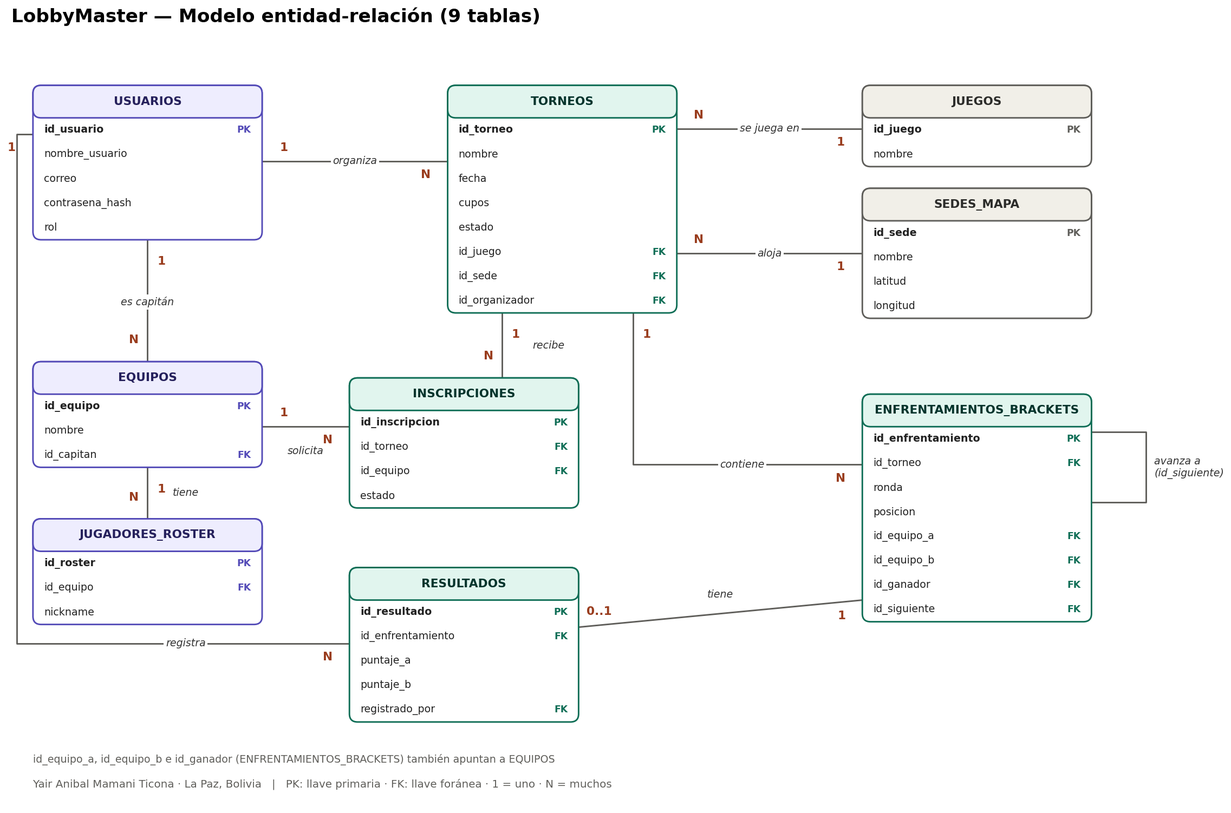
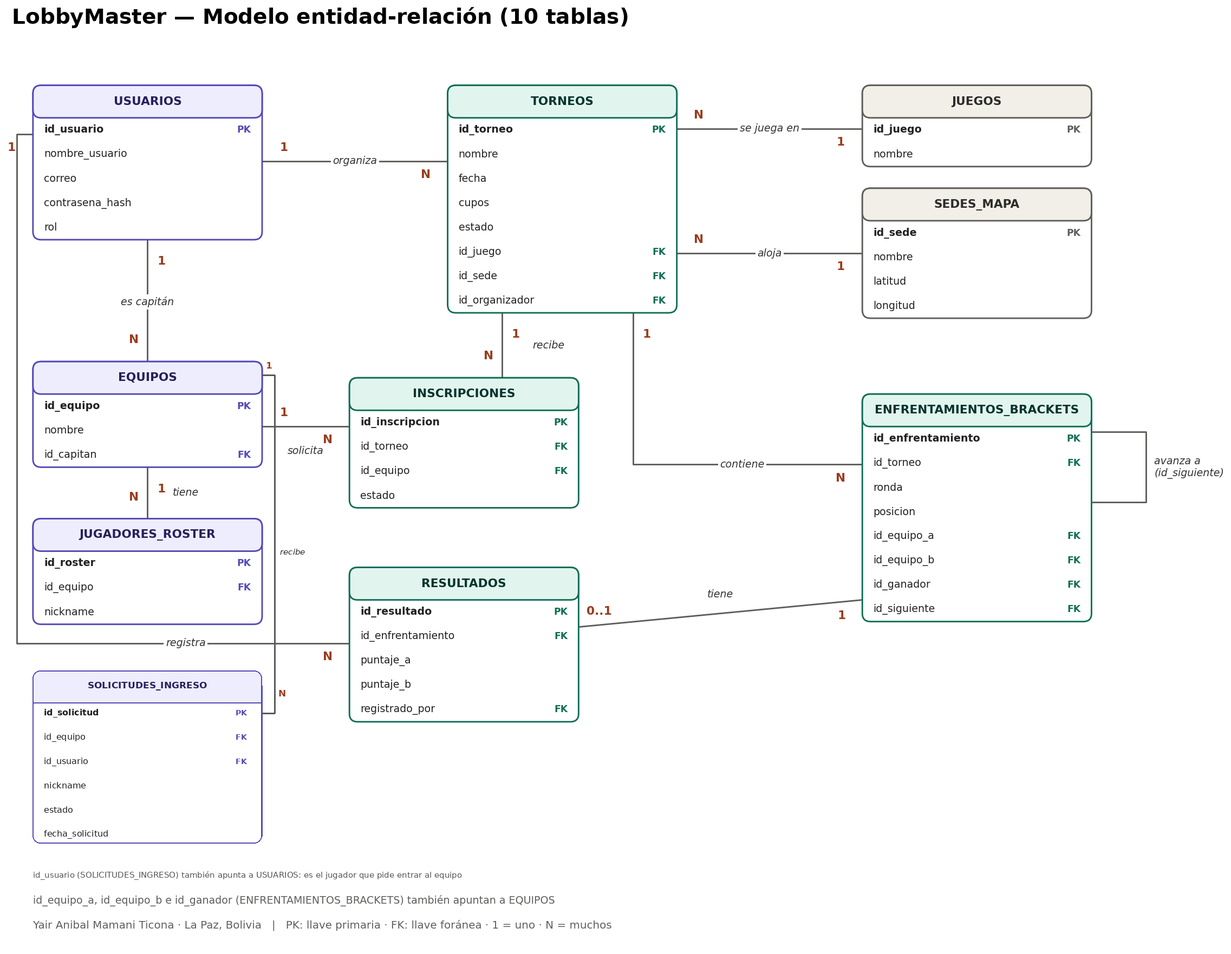
feat(equipos): solicitudes de ingreso a equipos con aceptar, rechazar y cancelar

diff --git a/backend/src/store.js b/backend/src/store.js
@@ -18,6 +18,7 @@
     torneos: { pk: 'id_torneo', cols: [['id_torneo', 'INT', 'PK', 'Identificador del torneo'], ['nombre', 'VARCHAR(40)', 'UQ', 'Nombre del torneo'], ['fecha', 'DATE', '', 'Fecha de realización'], ['cupos', 'INT', 'CK', 'Equipos permitidos (4 a 32)'], ['estado', 'VARCHAR(12)', 'CK', 'abierto, en_curso o finalizado'], ['id_juego', 'INT', 'FK', 'Juego → juegos'], ['id_sede', 'INT', 'FK', 'Sede → sedes_mapa'], ['id_organizador', 'INT', 'FK', 'Organizador → usuarios']] },
     equipos: { pk: 'id_equipo', cols: [['id_equipo', 'INT', 'PK', 'Identificador del equipo'], ['nombre', 'VARCHAR(24)', 'UQ', 'Nombre del equipo'], ['id_capitan', 'INT', 'FK', 'Capitán → usuarios']] },
     jugadores_roster: { pk: 'id_roster', cols: [['id_roster', 'INT', 'PK', 'Identificador'], ['id_equipo', 'INT', 'FK', 'Equipo → equipos'], ['nickname', 'VARCHAR(30)', '', 'Apodo del jugador']] },
+    solicitudes_ingreso: { pk: 'id_solicitud', cols: [['id_solicitud', 'INT', 'PK', 'Identificador de la solicitud'], ['id_equipo', 'INT', 'FK', 'Equipo → equipos'], ['id_usuario', 'INT', 'FK', 'Jugador que solicita → usuarios'], ['nickname', 'VARCHAR(30)', '', 'Apodo con el que quiere entrar al roster'], ['estado', 'VARCHAR(10)', 'CK', 'pendiente, aceptada o rechazada'], ['fecha_solicitud', 'TIMESTAMP', '', 'Fecha y hora de la solicitud']] },
     inscripciones: { pk: 'id_inscripcion', cols: [['id_inscripcion', 'INT', 'PK', 'Identificador'], ['id_torneo', 'INT', 'FK', 'Torneo → torneos'], ['id_equipo', 'INT', 'FK', 'Equipo → equipos'], ['estado', 'VARCHAR(10)', 'CK', 'pendiente, aprobado o rechazado']] },
     enfrentamientos_brackets: { pk: 'id_enfrentamiento', cols: [['id_enfrentamiento', 'INT', 'PK', 'Identificador del cruce'], ['id_torneo', 'INT', 'FK', 'Torneo → torneos'], ['ronda', 'INT', '', 'Número de ronda'], ['posicion', 'INT', '', 'Posición dentro de la ronda'], ['id_equipo_a', 'INT', 'FK', 'Equipo A → equipos (nulo = por definir)'], ['id_equipo_b', 'INT', 'FK', 'Equipo B → equipos (nulo = por definir)'], ['id_ganador', 'INT', 'FK', 'Ganador → equipos'], ['id_siguiente', 'INT', 'FK', 'Cruce siguiente → el mismo árbol']] },
     resultados: { pk: 'id_resultado', cols: [['id_resultado', 'INT', 'PK', 'Identificador'], ['id_enfrentamiento', 'INT', 'UQ', 'Cruce → enfrentamientos_brackets'], ['puntaje_a', 'INT', 'CK', 'Puntaje del equipo A'], ['puntaje_b', 'INT', 'CK', 'Puntaje del equipo B'], ['registrado_por', 'INT', 'FK', 'Quién lo registró → usuarios'], ['fecha_registro', 'TIMESTAMP', '', 'Fecha y hora del registro']] }
@@ -48,6 +49,7 @@
     function load() {
       try { const raw = storage.getItem(KEY); S = raw ? JSON.parse(raw) : null; } catch (e) { S = null; }
       if (!S || S.v !== 4) { S = blank(); seed(); save(); }
+      else TABLES.forEach(t => { if (!S.t[t]) S.t[t] = []; }); // datos guardados antes de agregar una tabla nueva
     }
     function insert(table, row) { const pk = SCHEMA[table].pk; S.seq[table] = (S.seq[table] || 0) + 1; row = Object.assign({ [pk]: S.seq[table] }, row); S.t[table].push(row); return row; }
     const rows = (t, f) => (f ? S.t[t].filter(f) : S.t[t]);
@@ -106,7 +108,7 @@
       if (u.rol === 'admin' && rows('usuarios', x => x.rol === 'admin').length === 1) fail('Debe existir al menos un administrador');
       const nT = rows('torneos', t => t.id_organizador === id).length, nE = rows('equipos', e => e.id_capitan === id).length, nR = rows('resultados', r => r.registrado_por === id).length;
       if (nT || nE || nR) fail('No se puede eliminar: tiene ' + [nT && nT + ' torneo(s)', nE && nE + ' equipo(s)', nR && nR + ' resultado(s)'].filter(Boolean).join(', ') + ' asociados (integridad referencial)');
-      remove('usuarios', x => x.id_usuario === id); log(actor, 'Eliminó al usuario ' + u.nombre_usuario); save();
+      remove('solicitudes_ingreso', x => x.id_usuario === id); remove('usuarios', x => x.id_usuario === id); log(actor, 'Eliminó al usuario ' + u.nombre_usuario); save();
     }
     function changePassword(actor, oldPw, newPw) {
       const u = find('usuarios', actor.id_usuario);
@@ -183,12 +185,56 @@
       if (!ownsTeam(actor, e)) fail('Solo el capitán puede eliminar el equipo');
       const n = rows('inscripciones', i => i.id_equipo === id).length;
       if (n) fail('No se puede eliminar: el equipo tiene ' + n + ' inscripción(es). Retira primero las inscripciones.');
-      remove('jugadores_roster', j => j.id_equipo === id); remove('equipos', x => x.id_equipo === id);
+      remove('solicitudes_ingreso', x => x.id_equipo === id); remove('jugadores_roster', j => j.id_equipo === id); remove('equipos', x => x.id_equipo === id);
       log(actor, 'Eliminó el equipo ' + e.nombre); save();
     }
     function listTeams(f) {
       f = f || {};
       return rows('equipos', e => (f.captainId ? e.id_capitan === f.captainId : true)).map(teamView).sort((a, b) => a.nombre.localeCompare(b.nombre));
+    }
+    // ---------- solicitudes de ingreso a un equipo ----------
+    function solicitudView(s) {
+      const e = find('equipos', s.id_equipo), u = find('usuarios', s.id_usuario);
+      return Object.assign({}, s, { equipo: e ? e.nombre : '—', solicitante: u ? u.nombre_usuario : '—', id_capitan: e ? e.id_capitan : null });
+    }
+    function solicitarIngreso(actor, idEquipo, nickname) {
+      need(actor, 'solicitud.crear');
+      const e = find('equipos', idEquipo); if (!e) fail('Equipo no encontrado');
+      if (e.id_capitan === actor.id_usuario) fail('Ya eres el capitán de este equipo');
+      const nick = clean(nickname), ros = rosterOf(idEquipo);
+      if (nick.length < 2 || nick.length > 30) fail('El apodo debe tener entre 2 y 30 caracteres', 'nickname');
+      if (ros.some(j => ci(j) === ci(nick))) fail('Ese apodo ya está en el roster del equipo', 'nickname');
+      if (ros.length >= ROSTER_MAX) fail('El roster de «' + e.nombre + '» ya está completo (' + ROSTER_MAX + ' jugadores)');
+      if (rows('solicitudes_ingreso', x => x.id_equipo === idEquipo && x.id_usuario === actor.id_usuario && x.estado === 'pendiente').length) fail('Ya tienes una solicitud pendiente en este equipo');
+      const s = insert('solicitudes_ingreso', { id_equipo: idEquipo, id_usuario: actor.id_usuario, nickname: nick, estado: 'pendiente', fecha_solicitud: stamp(nowFn()) });
+      log(actor, 'Solicitó unirse al equipo ' + e.nombre); save(); return solicitudView(s);
+    }
+    function listSolicitudes(f) {
+      f = f || {};
+      return rows('solicitudes_ingreso', s => (f.userId ? s.id_usuario === f.userId : true) && (f.teamIds ? f.teamIds.includes(s.id_equipo) : true) && (f.estado ? s.estado === f.estado : true))
+        .map(solicitudView).sort((a, b) => b.id_solicitud - a.id_solicitud);
+    }
+    function resolverSolicitud(actor, id, estado) {
+      const s = find('solicitudes_ingreso', id); if (!s) fail('Solicitud no encontrada');
+      const e = find('equipos', s.id_equipo); if (!e) fail('Equipo no encontrado');
+      if (!ownsTeam(actor, e)) fail('Solo el capitán puede responder las solicitudes de su equipo');
+      if (estado !== 'aceptada' && estado !== 'rechazada') fail('Estado no válido');
+      if (s.estado !== 'pendiente') fail('Esta solicitud ya fue respondida');
+      if (estado === 'aceptada') {
+        const ros = rosterOf(e.id_equipo);
+        if (ros.length >= ROSTER_MAX) fail('El roster ya está completo (' + ROSTER_MAX + ' jugadores)');
+        if (ros.some(j => ci(j) === ci(s.nickname))) fail('Ese apodo ya está en el roster');
+        insert('jugadores_roster', { id_equipo: e.id_equipo, nickname: s.nickname });
+      }
+      s.estado = estado;
+      const u = find('usuarios', s.id_usuario);
+      log(actor, (estado === 'aceptada' ? 'Aceptó' : 'Rechazó') + ' a ' + (u ? u.nombre_usuario : 'un jugador') + ' en el equipo ' + e.nombre); save(); return solicitudView(s);
+    }
+    function cancelarSolicitud(actor, id) {
+      const s = find('solicitudes_ingreso', id); if (!s) fail('Solicitud no encontrada');
+      if (s.id_usuario !== actor.id_usuario) fail('Solo quien la envió puede cancelarla');
+      if (s.estado !== 'pendiente') fail('Solo se pueden cancelar solicitudes pendientes');
+      remove('solicitudes_ingreso', x => x.id_solicitud === id); log(actor, 'Canceló su solicitud de ingreso'); save();
     }
     const getTeam = id => { const e = find('equipos', id); return e ? teamView(e) : null; };
 
@@ -402,7 +448,7 @@
       return {
         usuarios: rows('usuarios').length, equipos: rows('equipos').length, jugadores: rows('jugadores_roster').length, sedes: rows('sedes_mapa').length,
         torneos: ts.length, abiertos: ts.filter(t => t.estado === 'abierto').length, en_curso: ts.filter(t => t.estado === 'en_curso').length, finalizados: ts.filter(t => t.estado === 'finalizado').length,
-        partidas: rows('resultados').length, pendientes: rows('inscripciones', i => i.estado === 'pendiente').length, porJuego
+        partidas: rows('resultados').length, solicitudes: rows('solicitudes_ingreso', x => x.estado === 'pendiente').length, pendientes: rows('inscripciones', i => i.estado === 'pendiente').length, porJuego
       };
     }
     const bitacora = n => S.log.slice(0, n || 15);
@@ -462,6 +508,9 @@
       const play = (idT, list, when) => list.forEach(([r, i, sa, sb]) => { const b = getBracket(idT); registrarResultado(org, b.rounds[r][i].id_enfrentamiento, sa, sb, when); });
       play(T1.id_torneo, [[0, 0, 2, 0], [0, 1, 2, 1], [0, 2, 1, 2], [0, 3, 2, 1], [1, 0, 2, 0], [1, 1, 1, 2], [2, 0, 2, 1]], day(-35));
       play(T2.id_torneo, [[0, 0, 2, 1], [0, 1, 0, 2], [1, 0, 2, 0], [0, 2, 2, 0]], day(-2));
+      // solicitudes de ingreso de demostración (a «Illimani eSports», cuyo capitán es la cuenta «jugador»)
+      const sol = (id, user, nick, est) => insert('solicitudes_ingreso', { id_equipo: id, id_usuario: rows('usuarios', x => x.nombre_usuario === user)[0].id_usuario, nickname: nick, estado: est, fecha_solicitud: stamp(day(-1)) });
+      sol(1, 'wayna_pro', 'Wayna_Fox', 'pendiente'); sol(1, 'sajama_clan', 'Sajama_Zero', 'pendiente'); sol(1, 'titi_lake', 'Lago_Azul', 'rechazada');
       void admin; silent = false;
       S.log = [{ id: Date.now() * 1000, t: stamp(nowFn()), u: 'sistema', msg: 'Datos de demostración cargados' }];
     }
@@ -471,7 +520,7 @@
       SCHEMA, TABLES, MIN_EQUIPOS, ROSTER_MIN, ROSTER_MAX, MAX_PUNTAJE,
       register, login, getUser, listUsers, setRole, deleteUser, changePassword,
       listGames, addGame, deleteGame, listSedes, addSede, updateSede, deleteSede,
-      listTeams, getTeam, createTeam, updateTeam, deleteTeam,
+      listTeams, getTeam, createTeam, updateTeam, deleteTeam, solicitarIngreso, listSolicitudes, resolverSolicitud, cancelarSolicitud,
       listTorneos, getTorneo, createTorneo, updateTorneo, deleteTorneo,
       listInscripciones, listInscripcionesDeEquipos, inscribir, resolver, retirar,
       getBracket, generarBracket, registrarResultado, previewImpact, reiniciarBracket,

diff --git a/frontend/js/views_admin.js b/frontend/js/views_admin.js
@@ -52,16 +52,16 @@
   const unnorm = [['Copa Illimani Valorant', 'Valorant', 'Arena Sopocachi', '-16.5112, -68.1262', 'organizador', 'organizador@correo-demo.bo', 'Illimani eSports', 'jugador', 'Kuntur, Yatiri, Tunupa, Nayra, Sami', '2–0 vs Pachakuti Team'],
     ['Copa Illimani Valorant', 'Valorant', 'Arena Sopocachi', '-16.5112, -68.1262', 'organizador', 'organizador@correo-demo.bo', 'Wayna Squad', 'wayna_pro', 'Ayni, Turpo, Mallki, Zorro, Vizcacha', '2–1 vs Mallku eSports'],
     ['Liga Altiplano LoL Open', 'League of Legends', 'Hub Miraflores', '-16.5045, -68.1188', 'organizador', 'organizador@correo-demo.bo', 'Condor Gaming', 'kuntur_gg', 'Puma, Pukara, Sullka, Wayra, Illa', '2–1 vs Tunari Gaming']];
-  const finalRows = [['usuarios', 'id_usuario', '—', 'id_usuario → nombre_usuario, correo, contrasena_hash, rol'], ['juegos', 'id_juego', '—', 'id_juego → nombre'], ['sedes_mapa', 'id_sede', '—', 'id_sede → nombre, latitud, longitud'], ['torneos', 'id_torneo', 'id_juego, id_sede, id_organizador', 'id_torneo → nombre, fecha, cupos, estado, id_juego, id_sede, id_organizador'], ['equipos', 'id_equipo', 'id_capitan', 'id_equipo → nombre, id_capitan'], ['jugadores_roster', 'id_roster', 'id_equipo', 'id_roster → id_equipo, nickname'], ['inscripciones', 'id_inscripcion', 'id_torneo, id_equipo', 'id_inscripcion → estado   ·   (id_torneo, id_equipo) es llave candidata'], ['enfrentamientos_brackets', 'id_enfrentamiento', 'id_torneo, id_equipo_a, id_equipo_b, id_ganador, id_siguiente', 'id_enfrentamiento → ronda, posicion, equipos, ganador, siguiente'], ['resultados', 'id_resultado', 'id_enfrentamiento, registrado_por', 'id_resultado → puntaje_a, puntaje_b, registrado_por, fecha_registro']];
+  const finalRows = [['usuarios', 'id_usuario', '—', 'id_usuario → nombre_usuario, correo, contrasena_hash, rol'], ['juegos', 'id_juego', '—', 'id_juego → nombre'], ['sedes_mapa', 'id_sede', '—', 'id_sede → nombre, latitud, longitud'], ['torneos', 'id_torneo', 'id_juego, id_sede, id_organizador', 'id_torneo → nombre, fecha, cupos, estado, id_juego, id_sede, id_organizador'], ['equipos', 'id_equipo', 'id_capitan', 'id_equipo → nombre, id_capitan'], ['jugadores_roster', 'id_roster', 'id_equipo', 'id_roster → id_equipo, nickname'], ['solicitudes_ingreso', 'id_solicitud', 'id_equipo, id_usuario', 'id_solicitud → nickname, estado, fecha_solicitud   ·   un jugador pide entrar al roster de un equipo'], ['inscripciones', 'id_inscripcion', 'id_torneo, id_equipo', 'id_inscripcion → estado   ·   (id_torneo, id_equipo) es llave candidata'], ['enfrentamientos_brackets', 'id_enfrentamiento', 'id_torneo, id_equipo_a, id_equipo_b, id_ganador, id_siguiente', 'id_enfrentamiento → ronda, posicion, equipos, ganador, siguiente'], ['resultados', 'id_resultado', 'id_enfrentamiento, registrado_por', 'id_resultado → puntaje_a, puntaje_b, registrado_por, fecha_registro']];
   const step = (n, title, body) => h('section', { class: 'panel' }, h('header', null, h('span', { class: 'step-n' }, n), h('h3', null, title)), h('div', { class: 'body stack' }, body));
 
   V.modelo = ctx => {
     const { db, user } = ctx, tab = ctx.query.tab || 'resumen', root_ = h('div'), sch = db.SCHEMA, T = db.tables();
-    root_.appendChild(h('div', { class: 'page-head' }, h('div', null, h('h1', null, 'Modelo de datos'), h('p', null, 'Base de datos relacional de 9 tablas, normalizada hasta la tercera forma normal (3FN). Los datos que ves en la plataforma están guardados con esta misma estructura.'))));
+    root_.appendChild(h('div', { class: 'page-head' }, h('div', null, h('h1', null, 'Modelo de datos'), h('p', null, 'Base de datos relacional de 10 tablas, normalizada hasta la tercera forma normal (3FN). Los datos que ves en la plataforma están guardados con esta misma estructura.'))));
     root_.appendChild(tabsBar(ctx, 'modelo', [['resumen', 'db', 'Resumen y reglas'], ['normalizacion', 'table', 'Normalización'], ['diccionario', 'list', 'Diccionario de datos'], ['datos', 'eye', 'Explorador de datos'], ['consultas', 'code', 'Consultas SQL']], tab));
 
     if (tab === 'resumen') {
-      root_.appendChild(h('div', { class: 'grid g-main' }, h('section', { class: 'panel' }, h('header', null, icon('db'), h('h3', null, 'Diagrama entidad-relación')), h('div', { class: 'body' }, h('img', { src: '../docs/diagrama_er.png', alt: 'Diagrama entidad-relación de LobbyMaster con 9 tablas', style: { width: '100%', borderRadius: '4px', background: '#fff' }, onerror: e => { e.target.replaceWith(h('div', { class: 'alert warn' }, 'No se encontró docs/diagrama_er.png. Mantén la carpeta docs/ junto a frontend/.')); } }))),
+      root_.appendChild(h('div', { class: 'grid g-main' }, h('section', { class: 'panel' }, h('header', null, icon('db'), h('h3', null, 'Diagrama entidad-relación')), h('div', { class: 'body' }, h('img', { src: '../docs/diagrama_er.png', alt: 'Diagrama entidad-relación de LobbyMaster con 10 tablas', style: { width: '100%', borderRadius: '4px', background: '#fff' }, onerror: e => { e.target.replaceWith(h('div', { class: 'alert warn' }, 'No se encontró docs/diagrama_er.png. Mantén la carpeta docs/ junto a frontend/.')); } }))),
         h('section', { class: 'panel' }, h('header', null, icon('shield'), h('h3', null, 'Reglas de integridad')), h('ul', { class: 'list', style: { padding: '0 18px', fontSize: '13px' } }, [
           ['CHECK', 'cupos entre 4 y 32; puntajes ≥ 0; resultado sin empate'], ['CHECK', 'rol ∈ {admin, organizador, jugador}; estados válidos'], ['UNIQUE', '(id_torneo, id_equipo): un equipo no se inscribe dos veces'], ['UNIQUE', '(id_torneo, ronda, posicion): un solo cruce por posición'], ['UNIQUE', 'id_enfrentamiento en resultados: un resultado por cruce'],
           ['CASCADE', 'al borrar un torneo se borran inscripciones, cruces y resultados'], ['RESTRICT', 'no se borra un juego, sede o usuario que esté en uso'], ['AUTO-REF', 'id_siguiente forma el árbol binario del bracket']].map(([k, v]) => h('li', { style: { alignItems: 'flex-start' } }, h('span', { class: 'chip ac plain', style: { minWidth: '84px', justifyContent: 'center' } }, k), h('span', null, v)))))));
@@ -82,7 +82,7 @@
           h('div', { class: 'alert ok' }, 'Resultado: la tabla se divide en torneos, equipos, jugadores_roster e inscripciones (tabla puente entre torneos y equipos, relación N:M).')]),
         step(3, 'Tercera forma normal (3FN): sin dependencias transitivas', [h('p', null, 'Un atributo no clave no puede depender de otro atributo no clave.'),
           h('ul', { class: 'list' }, [['torneo → sede → latitud, longitud', 'sedes_mapa'], ['torneo → juego → nombre del juego', 'juegos'], ['torneo → organizador → correo, rol', 'usuarios'], ['equipo → capitán → correo, rol (mismo usuario)', 'usuarios'], ['cruce → torneo, ronda, posición, ganador, siguiente', 'enfrentamientos_brackets'], ['resultado → cruce → puntajes, quién lo registró', 'resultados']].map(([d, t]) => h('li', null, h('span', { class: 'mono grow' }, d), icon('check'), h('span', { class: 'chip ac plain' }, t)))),
-          h('div', { class: 'alert ok' }, 'Resultado: 9 tablas. Cada dato se guarda una sola vez y se enlaza con llaves foráneas.')]),
+          h('div', { class: 'alert ok' }, 'Resultado: 10 tablas. Cada dato se guarda una sola vez y se enlaza con llaves foráneas.')]),
         step(4, 'Modelo final y dependencias funcionales', [simple(['Tabla', 'Llave primaria', 'Llaves foráneas', 'Dependencia funcional'], finalRows.map(r => [h('b', { class: 'mono' }, r[0]), h('span', { class: 'mono pk' }, r[1]), h('span', { class: 'mono' }, r[2]), h('span', { class: 'mono muted' }, r[3])])),
           h('div', { class: 'alert' }, 'Verificación: en cada tabla el único determinante es una llave candidata (PK o UNIQUE), por lo que el modelo también cumple la forma normal de Boyce-Codd (BCNF). Los datos derivados no se guardan.')])));
     }

diff --git a/frontend/js/views_otros.js b/frontend/js/views_otros.js
@@ -33,13 +33,44 @@
     modal({ title: 'Historial · ' + team.nombre, wide: true, body: hs.length ? h('div', { class: 'tbl-wrap' }, h('table', { class: 'tbl' }, h('thead', null, h('tr', null, ['Torneo', 'Ronda', 'Rival', 'Marcador', 'Resultado'].map(x => h('th', null, x)))),
       h('tbody', null, hs.map(x => h('tr', null, h('td', null, h('b', null, x.torneo), h('div', { class: 'dim', style: { fontSize: '12px' } }, fmtDate(x.fecha))), h('td', null, x.ronda), h('td', null, x.rival), h('td', { class: 'num' }, x.pf + ' – ' + x.pc), h('td', null, h('span', { class: 'chip ' + (x.gano ? 'ok' : 'bad') }, x.gano ? 'Victoria' : 'Derrota'))))))) : empty('flag', 'Sin partidas', 'Este equipo todavía no ha jugado cruces.'), actions: [{ label: 'Cerrar', cls: 'pri' }] });
   }
+  // ---------- solicitudes de ingreso a un equipo ----------
+  function joinForm(ctx, team) {
+    const { db, user } = ctx;
+    const fK = field({ label: 'Tu apodo en el equipo', name: 'nickname', placeholder: 'Ej. ' + user.nombre_usuario, maxlength: 30, hint: 'Es el nombre con el que aparecerás en el roster si el capitán te acepta.' });
+    const form = h('form', { class: 'form', novalidate: true }, h('div', { class: 'alert' }, 'El capitán de «' + team.nombre + '» (' + team.capitan + ') recibirá tu solicitud y decidirá si te acepta.'), fK.el);
+    const send = () => { try { db.solicitarIngreso(user, team.id_equipo, fK.value); toast('Solicitud enviada a ' + team.capitan, 'ok'); m.close(); ctx.refresh(); } catch (e) { if (e.name !== 'VErr') throw e; if (e.fields.nickname) fK.error(e.fields.nickname); else toast(e.message, 'bad'); } };
+    form.addEventListener('submit', e => { e.preventDefault(); send(); });
+    const m = modal({ title: 'Solicitar ingreso · ' + team.nombre, body: form, actions: [{ label: 'Cancelar', cls: 'ghost' }, { label: 'Enviar solicitud', cls: 'pri', onClick: () => { send(); return false; }, keep: true }] });
+  }
+  function solicitudesRecibidas(ctx, teamIds) {
+    const { db, user } = ctx, list = db.listSolicitudes({ teamIds });
+    if (!list.length) return null;
+    const act = (id, est, ok) => V.run(ctx, () => db.resolverSolicitud(user, id, est), ok);
+    return h('section', { class: 'panel mt' }, h('header', null, icon('user'), h('h3', null, 'Solicitudes de ingreso a mis equipos'), h('span', { class: 'sp dim' }, list.filter(s => s.estado === 'pendiente').length + ' pendiente(s)')),
+      h('div', { class: 'tbl-wrap' }, h('table', { class: 'tbl' }, h('thead', null, h('tr', null, ['Jugador', 'Apodo', 'Equipo', 'Fecha', 'Estado', ''].map(x => h('th', null, x)))),
+        h('tbody', null, list.map(s => h('tr', null, h('td', null, h('b', null, s.solicitante)), h('td', null, s.nickname), h('td', null, s.equipo), h('td', { class: 'dim' }, s.fecha_solicitud.slice(0, 16)), h('td', null, chip(s.estado)),
+          h('td', { style: { textAlign: 'right', whiteSpace: 'nowrap' } }, s.estado === 'pendiente' ? [h('button', { class: 'btn sm pri', onclick: () => act(s.id_solicitud, 'aceptada', 'Jugador agregado al roster') }, 'Aceptar'), ' ', h('button', { class: 'btn sm danger', onclick: () => act(s.id_solicitud, 'rechazada', 'Solicitud rechazada') }, 'Rechazar')] : null)))))));
+  }
+  function unirseAEquipos(ctx) {
+    const { db, user } = ctx, mias = db.listSolicitudes({ userId: user.id_usuario });
+    const libres = db.listTeams().filter(t => t.id_capitan !== user.id_usuario && t.jugadores.length < db.ROSTER_MAX);
+    const pend = new Set(mias.filter(s => s.estado === 'pendiente').map(s => s.id_equipo));
+    const out = [];
+    out.push(h('section', { class: 'panel mt' }, h('header', null, icon('users'), h('h3', null, 'Unirme a un equipo'), h('span', { class: 'sp dim' }, 'Envía una solicitud y el capitán decide')),
+      libres.length ? h('div', { class: 'body stack' }, libres.map(t => h('div', { class: 'row' }, teamBadge(t.nombre, 'lg'), h('div', { class: 'grow' }, h('b', null, t.nombre), h('div', { class: 'dim', style: { fontSize: '12.5px' } }, 'Capitán: ' + t.capitan + ' · ' + t.jugadores.length + ' / ' + db.ROSTER_MAX + ' jugadores')),
+        pend.has(t.id_equipo) ? chip('pendiente', 'Solicitud enviada') : h('button', { class: 'btn sm', onclick: () => joinForm(ctx, t) }, icon('plus'), 'Solicitar ingreso')))) : empty('users', 'No hay equipos con cupo', 'Todos los equipos tienen su roster completo.')));
+    if (mias.length) out.push(h('section', { class: 'panel mt' }, h('header', null, icon('clock'), h('h3', null, 'Mis solicitudes')),
+      h('div', { class: 'body stack' }, mias.map(s => h('div', { class: 'row' }, h('div', { class: 'grow' }, h('b', null, s.equipo), h('div', { class: 'dim', style: { fontSize: '12.5px' } }, 'Como «' + s.nickname + '» · ' + s.fecha_solicitud.slice(0, 16))), chip(s.estado),
+        s.estado === 'pendiente' ? h('button', { class: 'btn sm ghost', onclick: () => V.run(ctx, () => db.cancelarSolicitud(user, s.id_solicitud), 'Solicitud cancelada') }, 'Cancelar') : null)))));
+    return out;
+  }
   V.equipos = ctx => {
     const { db, user } = ctx, all = Auth.can(user, 'equipo.ver_todos'), teams = all ? db.listTeams() : db.listTeams({ captainId: user.id_usuario });
     const rk = Object.fromEntries(db.ranking().map(r => [r.id_equipo, r]));
     const root_ = h('div');
     root_.appendChild(h('div', { class: 'page-head' }, h('div', null, h('h1', null, all ? 'Equipos' : 'Mis equipos'), h('p', null, all ? 'Todos los equipos registrados en la plataforma.' : 'Administra tu equipo y su roster. Solo el capitán puede inscribirlo en torneos.')), h('div', { class: 'sp' }, Auth.can(user, 'equipo.crear') ? h('button', { class: 'btn pri', onclick: () => teamForm(ctx) }, icon('plus'), 'Nuevo equipo') : null)));
-    if (!teams.length) { root_.appendChild(h('div', { class: 'panel' }, empty('users', 'Aún no tienes equipos', 'Crea tu equipo con al menos ' + db.ROSTER_MIN + ' jugadores para inscribirte en torneos.', h('button', { class: 'btn pri', onclick: () => teamForm(ctx) }, icon('plus'), 'Crear equipo')))); return root_; }
-    root_.appendChild(h('div', { class: 'grid g3' }, teams.map(t => {
+    if (!teams.length) root_.appendChild(h('div', { class: 'panel' }, empty('users', 'Aún no tienes equipos', 'Crea tu equipo con al menos ' + db.ROSTER_MIN + ' jugadores para inscribirte en torneos.', h('button', { class: 'btn pri', onclick: () => teamForm(ctx) }, icon('plus'), 'Crear equipo'))));
+    else root_.appendChild(h('div', { class: 'grid g3' }, teams.map(t => {
       const r = rk[t.id_equipo], mine = t.id_capitan === user.id_usuario || all;
       return h('article', { class: 'panel', style: { padding: '18px', display: 'flex', flexDirection: 'column', gap: '14px' } },
         h('div', { class: 'row' }, teamBadge(t.nombre, 'lg'), h('div', { class: 'grow', style: { minWidth: 0 } }, h('h3', null, t.nombre), h('div', { class: 'dim', style: { fontSize: '12.5px' } }, 'Capitán: ' + t.capitan))),
@@ -48,6 +79,8 @@
         h('div', { class: 'row', style: { marginTop: 'auto' } }, h('button', { class: 'btn sm', onclick: () => historyModal(ctx, t) }, icon('flag'), 'Historial'),
           mine ? [h('button', { class: 'btn sm', onclick: () => teamForm(ctx, t) }, icon('edit'), 'Editar'), h('button', { class: 'btn sm danger sp', 'aria-label': 'Eliminar equipo', onclick: async () => { if (await confirmBox({ title: 'Eliminar equipo', message: '¿Eliminar «' + t.nombre + '»?', confirm: 'Eliminar', danger: true })) { try { db.deleteTeam(user, t.id_equipo); toast('Equipo eliminado', 'ok'); ctx.refresh(); } catch (e) { toast(e.message, 'bad'); } } } }, icon('trash'))] : null));
     })));
+    const rec = solicitudesRecibidas(ctx, teams.map(t => t.id_equipo)); if (rec) root_.appendChild(rec);
+    if (!all) unirseAEquipos(ctx).forEach(x => root_.appendChild(x));
     return root_;
   };
 

diff --git a/tests/store.test.js b/tests/store.test.js
@@ -19,7 +19,7 @@ ok('registro valida y no repite', () => {
   assert.strictEqual(u.rol, 'jugador', 'el registro publico nunca crea administradores');
 });
 ok('datos de demostracion consistentes', () => {
-  const t = db.tables(); assert.strictEqual(Object.keys(t).length, 9);
+  const t = db.tables(); assert.strictEqual(Object.keys(t).length, 10);
   const r = db.resumen(); assert.strictEqual(r.torneos, 5); assert.strictEqual(r.finalizados, 1); assert.strictEqual(r.en_curso, 1);
   const T1 = db.listTorneos().find(x => x.nombre === 'Copa Illimani Valorant'), b = db.getBracket(T1.id_torneo);
   assert.ok(b.campeon, 'T1 tiene campeon'); assert.strictEqual(b.total, 3); assert.deepStrictEqual(b.nombres, ['Cuartos de final', 'Semifinal', 'Final']);
@@ -105,5 +105,40 @@ ok('sedes: ubicacion elegida en el mapa, permisos y direccion', () => {
   assert.strictEqual(s2.direccion, null); assert.strictEqual(s2.enlace_maps, null, 'solo se aceptan enlaces http(s)');
   throwsMsg(() => db.updateSede(org, s.id_sede, base), /permiso/); db.updateSede(admin, s.id_sede, Object.assign({}, base, { nombre: 'Sede Maps 2' }));
   assert.strictEqual(db.listSedes().find(x => x.id_sede === s.id_sede).nombre, 'Sede Maps 2');
+});
+ok('solicitudes de ingreso: reglas y flujo', () => {
+  const cap = db.login('jugador', 'Jugador2026'), wayna = db.login('wayna_pro', 'Jugador2026'), nuevo = db.login('nuevo_1', 'Clave1234');
+  const illimani = db.listTeams({ captainId: cap.id_usuario })[0];
+  assert.strictEqual(db.listSolicitudes({ teamIds: [illimani.id_equipo], estado: 'pendiente' }).length, 2, 'la semilla trae 2 pendientes');
+  throwsMsg(() => db.solicitarIngreso(cap, illimani.id_equipo, 'Yo'), /capitán/);
+  throwsMsg(() => db.solicitarIngreso(nuevo, illimani.id_equipo, 'x'), /entre 2 y 30/);
+  throwsMsg(() => db.solicitarIngreso(nuevo, illimani.id_equipo, illimani.jugadores[0].toUpperCase()), /ya está en el roster/);
+  throwsMsg(() => db.solicitarIngreso(wayna, illimani.id_equipo, 'Otro_Apodo'), /pendiente/);
+  const s = db.solicitarIngreso(nuevo, illimani.id_equipo, '  Nuevo   Uno ');
+  assert.strictEqual(s.estado, 'pendiente'); assert.strictEqual(s.nickname, 'Nuevo Uno'); assert.strictEqual(s.equipo, 'Illimani eSports');
+  throwsMsg(() => db.resolverSolicitud(nuevo, s.id_solicitud, 'aceptada'), /capitán/);
+  throwsMsg(() => db.resolverSolicitud(cap, s.id_solicitud, 'cualquiera'), /no válido/);
+  assert.strictEqual(db.getTeam(illimani.id_equipo).jugadores.length, 5);
+  db.resolverSolicitud(cap, s.id_solicitud, 'aceptada');
+  assert.ok(db.getTeam(illimani.id_equipo).jugadores.includes('Nuevo Uno'), 'al aceptar entra al roster');
+  throwsMsg(() => db.resolverSolicitud(cap, s.id_solicitud, 'rechazada'), /ya fue respondida/);
+  const w = db.listSolicitudes({ userId: wayna.id_usuario })[0];
+  db.resolverSolicitud(cap, w.id_solicitud, 'rechazada');
+  assert.ok(!db.getTeam(illimani.id_equipo).jugadores.includes(w.nickname), 'al rechazar no entra al roster');
+  // cancelar: solo quien la envio y solo si esta pendiente
+  const sj = db.listSolicitudes({ userId: db.login('sajama_clan', 'Jugador2026').id_usuario })[0];
+  throwsMsg(() => db.cancelarSolicitud(nuevo, sj.id_solicitud), /Solo quien/);
+  db.cancelarSolicitud(db.login('sajama_clan', 'Jugador2026'), sj.id_solicitud);
+  assert.strictEqual(db.listSolicitudes({ teamIds: [illimani.id_equipo], estado: 'pendiente' }).length, 0);
+  // roster completo: no se puede solicitar ni aceptar
+  const u1 = db.register({ nombre_usuario: 'cap_lleno', correo: 'lleno@x.bo', password: 'Clave1234' }), c1 = db.login('cap_lleno', 'Clave1234');
+  const lleno = db.createTeam(c1, { nombre: 'Equipo Lleno', jugadores: ['a1', 'a2', 'a3', 'a4', 'a5', 'a6', 'a7', 'a8'] });
+  throwsMsg(() => db.solicitarIngreso(nuevo, lleno.id_equipo, 'Tarde'), /completo/);
+  // eliminar el equipo elimina sus solicitudes; admin puede responder cualquier solicitud
+  const corto = db.createTeam(c1, { nombre: 'Equipo Corto', jugadores: ['b1', 'b2'] }), s3 = db.solicitarIngreso(nuevo, corto.id_equipo, 'Entrante');
+  db.resolverSolicitud(admin, s3.id_solicitud, 'aceptada'); assert.ok(db.getTeam(corto.id_equipo).jugadores.includes('Entrante'));
+  const s4 = db.solicitarIngreso(wayna, corto.id_equipo, 'Segundo'); db.deleteTeam(c1, corto.id_equipo);
+  assert.strictEqual(db.listSolicitudes({ userId: wayna.id_usuario }).filter(x => x.id_solicitud === s4.id_solicitud).length, 0);
+  void u1;
 });
 console.log('Pruebas del modelo: ' + n + ' grupos OK');

diff --git a/frontend/js/ui.js b/frontend/js/ui.js
@@ -76,7 +76,7 @@
   const initials = n => { const p = String(n).trim().split(/\s+/); return (p.length > 1 ? p[0][0] + p[1][0] : String(n).slice(0, 2)).toUpperCase(); };
   function teamBadge(name, size) { return h('span', { class: 'badge-team ' + (size || ''), style: { background: 'hsl(' + hue(name) + ' 46% 38%)' }, title: name }, initials(name)); }
   function avatar(name) { return h('span', { class: 'avatar', style: { background: 'hsl(' + hue(name) + ' 40% 34%)' } }, String(name).slice(0, 2).toUpperCase()); }
-  const ESTADO = { abierto: ['ok', 'Abierto'], en_curso: ['warn', 'En curso'], finalizado: ['mute', 'Finalizado'], pendiente: ['warn', 'Pendiente'], aprobado: ['ok', 'Aprobado'], rechazado: ['bad', 'Rechazado'] };
+  const ESTADO = { abierto: ['ok', 'Abierto'], en_curso: ['warn', 'En curso'], finalizado: ['mute', 'Finalizado'], pendiente: ['warn', 'Pendiente'], aprobado: ['ok', 'Aprobado'], rechazado: ['bad', 'Rechazado'], aceptada: ['ok', 'Aceptada'], rechazada: ['bad', 'Rechazada'] };
   const chip = (e, text) => h('span', { class: 'chip ' + (ESTADO[e] ? ESTADO[e][0] : 'mute') }, text || (ESTADO[e] ? ESTADO[e][1] : e));
   const ROLCHIP = { admin: ['ac', 'Administrador'], organizador: ['info', 'Organizador'], jugador: ['mute', 'Jugador'] };
   const rolChip = r => h('span', { class: 'chip plain ' + ROLCHIP[r][0] }, ROLCHIP[r][1]);

diff --git a/tests/sync.test.js b/tests/sync.test.js
@@ -1,7 +1,7 @@
 // Prueba de la sincronizacion con la base remota usando un servidor PostgREST simulado: node tests/sync.test.js
 const assert = require('assert'), vm = require('vm'), fs = require('fs'), path = require('path'), Store = require('../backend/src/store.js');
 const mem = () => { const m = {}; return { getItem: k => (k in m ? m[k] : null), setItem: (k, v) => { m[k] = v; }, removeItem: k => { delete m[k]; } }; };
-const PKS = { usuarios: 'id_usuario', juegos: 'id_juego', sedes_mapa: 'id_sede', torneos: 'id_torneo', equipos: 'id_equipo', jugadores_roster: 'id_roster', inscripciones: 'id_inscripcion', enfrentamientos_brackets: 'id_enfrentamiento', resultados: 'id_resultado', bitacora: 'id_bitacora' };
+const PKS = { usuarios: 'id_usuario', juegos: 'id_juego', sedes_mapa: 'id_sede', torneos: 'id_torneo', equipos: 'id_equipo', jugadores_roster: 'id_roster', solicitudes_ingreso: 'id_solicitud', inscripciones: 'id_inscripcion', enfrentamientos_brackets: 'id_enfrentamiento', resultados: 'id_resultado', bitacora: 'id_bitacora' };
 
 function servidor() {
   const tabla = {}; Object.keys(PKS).forEach(t => { tabla[t] = []; });

diff --git a/backend/src/auth.js b/backend/src/auth.js
@@ -43,9 +43,9 @@
   const ROLES = { admin: 'Administrador', organizador: 'Organizador', jugador: 'Jugador' };
   // Matriz de permisos: que puede hacer cada rol (el controlador la consulta antes de actuar)
   const PERMS = {
-    admin: ['torneo.crear', 'torneo.gestionar_todos', 'equipo.crear', 'equipo.ver_todos', 'inscribir', 'usuarios.admin', 'catalogos.admin', 'sede.crear', 'datos.ver'],
-    organizador: ['torneo.crear', 'sede.crear', 'equipo.crear', 'inscribir'],
-    jugador: ['equipo.crear', 'inscribir']
+    admin: ['torneo.crear', 'torneo.gestionar_todos', 'equipo.crear', 'equipo.ver_todos', 'inscribir', 'usuarios.admin', 'catalogos.admin', 'sede.crear', 'solicitud.crear', 'datos.ver'],
+    organizador: ['torneo.crear', 'sede.crear', 'equipo.crear', 'inscribir', 'solicitud.crear'],
+    jugador: ['equipo.crear', 'inscribir', 'solicitud.crear']
   };
   const can = (user, perm) => !!user && (PERMS[user.rol] || []).includes(perm);
   const canManageTorneo = (user, torneo) => !!user && !!torneo && (can(user, 'torneo.gestionar_todos') || (user.rol === 'organizador' && torneo.id_organizador === user.id_usuario));

diff --git a/frontend/js/sync.js b/frontend/js/sync.js
@@ -6,7 +6,7 @@
 (function (root) {
   const cfg = root.LOBBY_CONFIG || {};
   // orden respetando llaves foraneas: primero los padres
-  const ORDER = ['usuarios', 'juegos', 'sedes_mapa', 'torneos', 'equipos', 'jugadores_roster', 'inscripciones', 'enfrentamientos_brackets', 'resultados', 'bitacora'];
+  const ORDER = ['usuarios', 'juegos', 'sedes_mapa', 'torneos', 'equipos', 'jugadores_roster', 'solicitudes_ingreso', 'inscripciones', 'enfrentamientos_brackets', 'resultados', 'bitacora'];
   const PK = { bitacora: 'id_bitacora' };
   const pkOf = (t, SCHEMA) => PK[t] || SCHEMA[t].pk;
 
